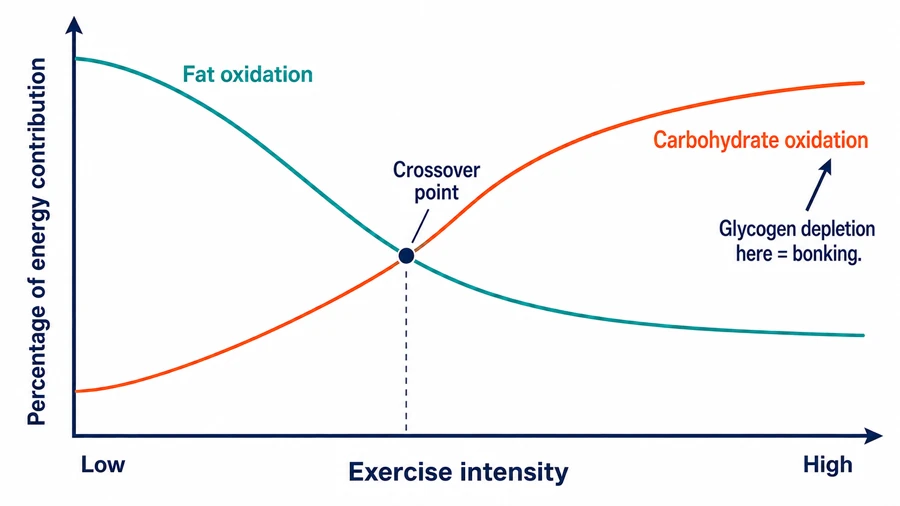
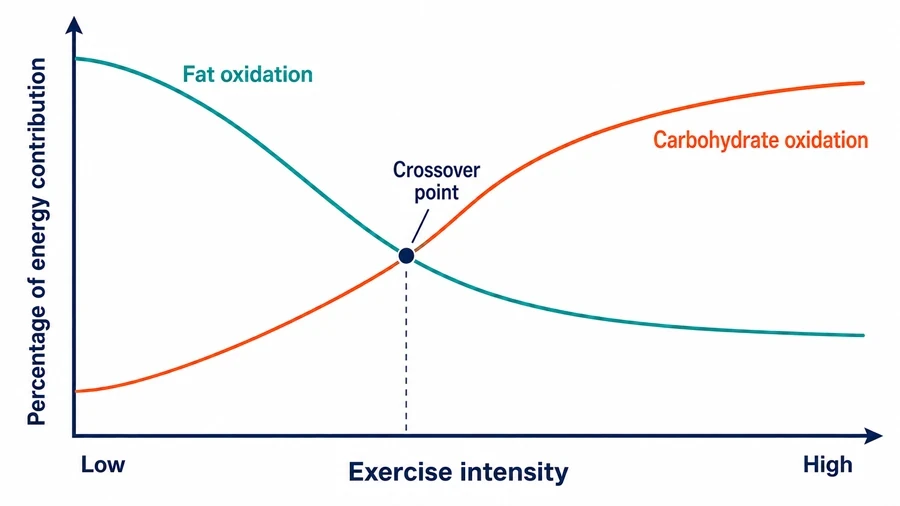
Remove the bonking annotation from the crossover graph (Codex catch)
The graph arrived with "Glycogen depletion here = bonking" and an arrow
pointing at the high-intensity end of the x-axis, which makes bonking look
like a consequence of reaching a particular intensity. The lesson says the
opposite: it happens "when glycogen runs critically low during prolonged
exercise" — a function of duration, not of a point on an intensity axis.

The error was in the spec rather than the delivery. That annotation came
from the slot's own description field, which predates this session, and it
was passed through into the batch brief unquestioned. The image did exactly
what it was asked to do.

Fixed in repo rather than held, the same way batch 9's contradicting
parenthetical was handled. The annotation and arrow were white-filled after
verifying programmatically that the fill box contained zero curve pixels,
so both curves, the crossover point, and every axis label survive intact.
The graph now matches its alt text, which never mentioned bonking, and the
lesson body still teaches bonking correctly in prose.

The slot's description was rewritten to drop the annotation and to record
why it must not return, so a future regeneration cannot reintroduce it.

Gates: validate:content 54/54 0 errors, build clean, all 7 diagrams
rendering with zero placeholders, sources intact, no console errors.

Claude-Session: https://claude.ai/code/session_01Caqwh4KEm6rymWthKUQfsq

Changed region(s): [[0.7778, 0.415, 0.9956, 0.5336], [0.9022, 0.3261, 0.9333, 0.3854], [0.8711, 0.3854, 0.9022, 0.415]]

diff --git a/docs/IMAGE-BATCHES.md b/docs/IMAGE-BATCHES.md
@@ -728,6 +728,24 @@ genuine safety issue:**
 `fueling-timeline` uses the exact windows (3-4 hours / 1-2 hours / 30-60
 minutes after) in left-to-right order around a practice icon.
 
+**One in-repo fix, from a Codex catch — and the error was in the spec, not
+the delivery.** `fuel-crossover-graph` arrived with the briefed annotation
+"Glycogen depletion here = bonking" and an arrow pointing at the
+**high-intensity end of the x-axis**. That makes bonking look like a
+consequence of reaching a particular intensity, whereas the lesson says it
+happens "when glycogen runs critically low **during prolonged exercise**" —
+a function of duration, not of a point on an intensity axis.
+
+The annotation came from the slot's own `description` field, which predates
+this session and was passed through into the brief unquestioned. Fixed in
+repo the batch-9 way: the annotation and arrow were white-filled out after
+verifying the fill box contained **zero curve pixels** (checked
+programmatically before compositing), leaving both curves, the crossover
+point, and every axis label intact. The image now matches its `alt`, which
+never mentioned bonking. The slot's `description` was rewritten to drop the
+annotation and to record *why* it must not come back, so a future
+regeneration can't reintroduce it.
+
 **The no-branding rule held.** The lesson names Gatorade, Red Bull, and
 Monster in its text, so the brief required generic containers; the delivery
 uses a plain "WATER" bottle, an unlabelled orange sports drink, and a generic
